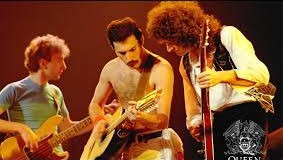
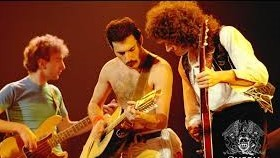
twelve commit

diff --git a/docs/index.html b/docs/index.html
@@ -48,7 +48,7 @@
       <img class="d-block w-100" src="img/queen-band-early.jpg" alt="First slide">
     </div>
     <div class="carousel-item">
-      <img class="d-block w-100" src="img/queen-band-lounging.jpg" alt="Second slide">
+      <img class="d-block w-100" src="img/queen-band-live.jpg" alt="Second slide">
     </div>
     <div class="carousel-item">
       <img class="d-block w-100" src="img/queen-band-portrait.jpg" text="Third slide" alt="Third slide">
